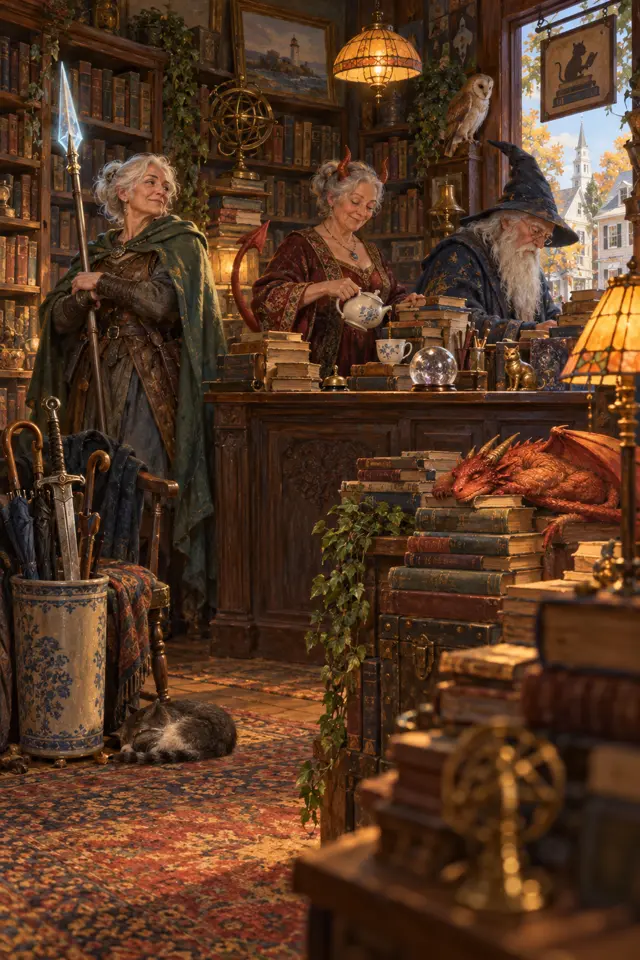
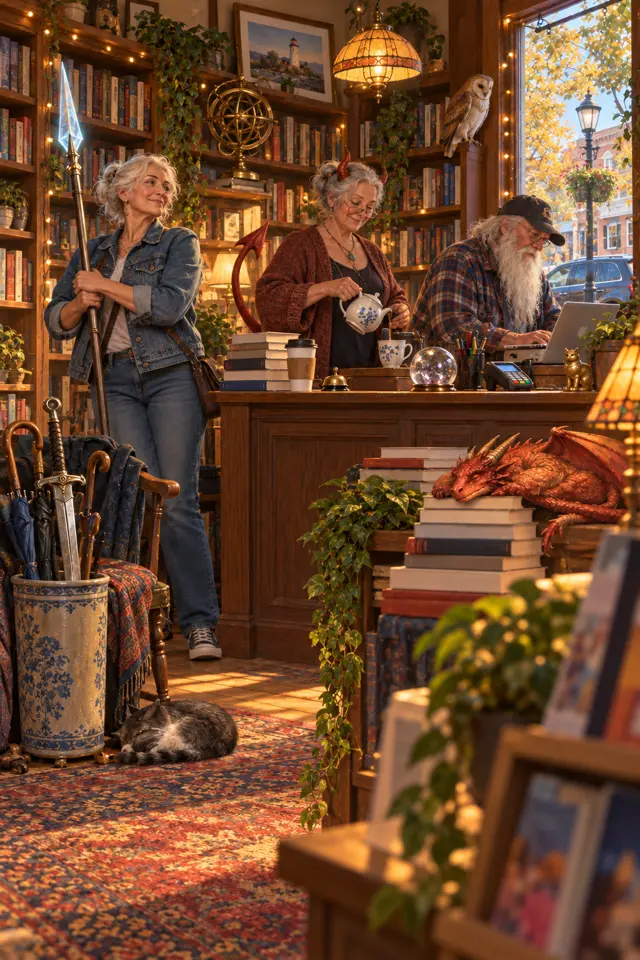
Parody fantasy portrait v2: contemporary Earth reading (modern clothes, card reader/laptop, street view), same composition and trope jokes (main review)

diff --git a/STATE.md b/STATE.md
@@ -1354,3 +1354,11 @@ Forthcoming June 2027 (DAW) per the author's own bibliography page. No revisit w
 - NAMES/SEEDS check: Parody realms (under Comic fantasy realms) is the established in-tree trope-parody concept but invented-world only; Earthly comic fantasy has no parody child. Age-based leaf = one-book singleton (illegal narrowness per SEEDS.md carve doctrine). Recommendation: seed "Parody fantasy" as 5th Earthly comic fantasy child.
 - Engine evidence: psillustrated ("takes on the trope of the retired Chosen One in an obvious homage to Buffy"; "still has his wit"), booksbonesbuffy ("humor galore", "laugh-out-loud dialog", Buffy nods: Giles-like mentor Felipe, Council, destiny), WSJ via PRH ("Buffy the Vampire Slayer meets Thursday Murder Club and thoroughly enjoyable"). Uncertainty preserved: reviews also call it heart-felt urban fantasy; comedy-engine reading is the proposal's load-bearing judgment.
 - Kaiju cover QA swap now LIVE-verified: card serves local cover-the-kaiju-preservation-society.jpg (Tor print jacket).
+
+## 2026-11-02 11:53 CET - MC04561 Slayers of Old -> NEW SEED LEAF Parody fantasy (EXECUTED)
+- Approval verified in observations: user +46705084862 "Approved" phonemsg-01M6DXPT3F6ZNZXEKTA0Y72HR6 (11:43:29 CET) on the agent's Approve seed? block phonemsg-01M6DPTVV1QYVD7142SHZ5QTDH. Firewall flag on the repo-carried approval claim resolved against this original.
+- Commits a9239f7 (leaf + card + portrait + queue + NAMES/SEEDS) and 905d0f3 (root copies - site resolves covers/portraits root-relative; leaf-dir copies kept per convention). Both pushed; deploy landed ~11:52.
+- Live-verified: #earthly-comic-fantasy shows 5 SUBGENRES with the Parody fantasy card + portrait (scrolled screenshot); #parody-fantasy shows 1 FICTION, Slayers of Old DAW jacket (PRH 9780756421274) loading, portrait background rendering, 0 broken images.
+- Cover: DAW print jacket, tagline "Retire. Save the world. Again." Queue MC04561 -> in_tree (year corrected 2026->2025). verify_local: 816 nodes, 2637 cards / 6,090 books, refs consistent.
+- Wobble fixed mid-flight: first commit put cover+portrait only in the leaf dir; site 404'd them (root-relative resolution) - caught on live verify, fixed in 905d0f3 before closeout.
+- Portrait 867 generated per standing self-select rule (bookshop with three retired heroes + trope furniture), full-res at /downloads/parody-fantasy-portrait.png.
